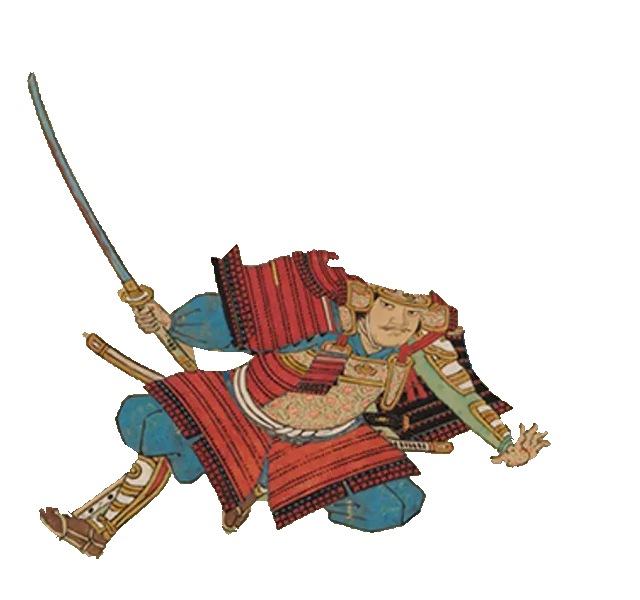
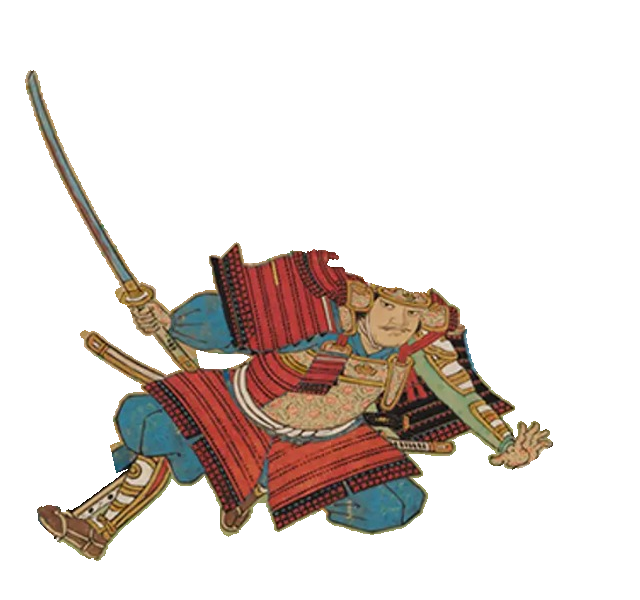
feat: 武者を除去した背景を構造ごとに復元（Step 4）
穴を金地・梁・畳縁・床・点線に領域分けし、梁と線は方向に沿って写し、
金地と床は同じ領域だけを取得元にしたパッチ補完で埋めた。
武者の画像のアルファを背景の穴と同一範囲にし、静止時の合成が元絵と画素単位で一致するようにした。

Claude-Session: https://claude.ai/code/session_01MRkYuQh9ee28DJTpxPr6ud

diff --git a/shuten-doji-animation-prototype/tools/restore_background.py b/shuten-doji-animation-prototype/tools/restore_background.py
@@ -1,0 +1,197 @@
+"""武者を除いた背景 scroll_background_clean.png を作る。
+
+穴を元絵の構造で領域分けし、領域ごとに埋め方を変える。
+  A 金地＋草      : 同じ領域だけを探索元にしたパッチ補完（Criminisi 法）
+  B 梁（敷居）    : 梁の方向に沿って見えている部分を写す
+  C 梁の下の畳縁  : 同上（黒点の周期を保つ）
+  D 緑の床        : パッチ補完
+  E 右手の下の点線: 点線の方向に沿って写す（黒点の周期を保つ）
+梁は左下で見えている部分の延長として、武者と鬼の首の後ろを通り柱の根元へ至るものとした。
+"""
+from pathlib import Path
+
+import cv2
+import numpy as np
+
+ROOT = Path(__file__).resolve().parent.parent
+SRC = ROOT / "assets/scroll/scroll_original.png"
+MASK = ROOT / "assets/characters/samurai_left_bottom/samurai_mask.png"
+OUT = ROOT / "assets/scroll/scroll_background_clean.png"
+
+ROI = (0, 130, 640, 710)          # 作業範囲 x0, y0, x1, y1
+SLOPE = -0.70                     # 梁・畳縁・点線に共通の傾き（遠近の平行線）
+BEAM_TOP_Y0 = 631.5               # 梁上端 y = BEAM_TOP_Y0 + SLOPE * x
+BEAM_T, STRIP_T = 31, 47          # 梁上端からの縦距離: 梁(黒線含む) / 畳縁 の下端
+DOT_LINE = (380, 670, -0.71)      # 右手の下の点線: (x0, y0, slope)
+DOT_X_MIN = 300
+DOT_HALF = 8
+DOT_PERIOD_X = 17.2               # 黒点の x 方向の周期
+BEAM_REF_X = (0, 33)              # 梁の全幅が見えている区間（足の左）
+PATCH = 9
+# パッチの取得元にしない物（複製されると不自然なもの）
+SOURCE_EXCLUDE = [
+    [(140, 130), (640, 130), (640, 395), (270, 395), (270, 300), (230, 270), (140, 215)],  # 鬼の首と髪
+    [(425, 340), (585, 340), (585, 515), (425, 515)],   # 青い斧の刃
+    [(440, 600), (548, 600), (548, 710), (440, 710)],   # 椀
+    [(240, 630), (312, 630), (312, 690), (240, 690)],   # 血の染み
+    [(0, 686), (640, 686), (640, 710), (0, 710)],       # 下端の点線と雲
+    [(522, 560), (566, 560), (566, 640), (522, 640)],   # 椀の上の赤い煙
+]
+SEARCH = 140
+HALO = 3                          # 穴の縁のにじみは取得元にしない
+FLOOR_HSV = ((22, 45), 40, 100)   # 床の緑: 色相範囲, 最低彩度, 最低明度
+FLOOR_MARGIN = 3
+
+A, B, C, D, E = 1, 2, 3, 4, 5
+
+
+def zone_map(shape, ox, oy):
+    """ROI 内の各画素を背景構造 A〜E に分類する。"""
+    h, w = shape
+    yy, xx = np.mgrid[0:h, 0:w].astype(np.float32)
+    xx += ox
+    yy += oy
+    t = yy - (BEAM_TOP_Y0 + SLOPE * xx)
+    z = np.full((h, w), D, np.uint8)
+    z[t < STRIP_T] = C
+    z[t < BEAM_T] = B
+    z[t < 0] = A
+    x0, y0, s = DOT_LINE
+    e = (np.abs(yy - (y0 + s * (xx - x0))) <= DOT_HALF) & (xx > DOT_X_MIN) & (z == D)
+    z[e] = E
+    return z
+
+
+def directional_fill(img, known, hole, zone, zid, slope, shifts):
+    """穴の画素を、帯の方向に shifts だけずらした既知画素から写す。"""
+    ys, xs = np.where(hole & (zone == zid))
+    h, w = zone.shape
+    filled = np.zeros_like(hole)
+    for y, x in zip(ys, xs):
+        for dx in shifts:
+            sx, sy = x + dx, y + slope * dx
+            ix, iy = int(round(sx)), int(round(sy))
+            if 0 <= ix < w - 1 and 0 <= iy < h - 1 and known[iy, ix] and zone[iy, ix] == zid:
+                img[y, x] = cv2.getRectSubPix(img, (1, 1), (float(sx), float(sy)))[0, 0]
+                filled[y, x] = True
+                break
+    return filled
+
+
+def mirror_fill(img, hole, zone, zid, slope, ref, ox):
+    """ref 区間を帯の方向に沿って折り返しながら敷き詰める（継ぎ目が出ない）。"""
+    a, b = ref[0] - ox, ref[1] - ox
+    L = b - a
+    ys, xs = np.where(hole & (zone == zid))
+    t = np.mod(xs - a, 2 * L)
+    sx = a + np.where(t < L, t, 2 * L - t).astype(np.float32)
+    sy = ys + slope * (sx - xs)
+    mapx = sx.reshape(-1, 1).astype(np.float32)
+    mapy = sy.reshape(-1, 1).astype(np.float32)
+    img[ys, xs] = cv2.remap(img, mapx, mapy, cv2.INTER_LINEAR)[:, 0]
+    return hole & (zone == zid)
+
+
+def criminisi(img, known, hole, zone, zid, excluded, floor):
+    """同じ領域内の既知パッチだけを探索元にして穴を埋める。"""
+    r = PATCH // 2
+    h, w = zone.shape
+    target = hole & (zone == zid)
+    src_ok = known & (zone == zid) & ~excluded
+    if zid == D:
+        src_ok &= floor
+    conf = src_ok.astype(np.float32)
+    gray = cv2.cvtColor(img, cv2.COLOR_BGR2GRAY).astype(np.float32)
+    while target.any():
+        valid = (known | (zone != zid)) & ~target
+        front = target & (cv2.dilate(valid.astype(np.uint8), np.ones((3, 3), np.uint8)) > 0)
+        fy, fx = np.where(front)
+        # 優先度 = 信頼度 × 等輝度線の強さ
+        gx = cv2.Sobel(gray, cv2.CV_32F, 1, 0, ksize=3)
+        gy = cv2.Sobel(gray, cv2.CV_32F, 0, 1, ksize=3)
+        cbox = cv2.boxFilter(conf, -1, (PATCH, PATCH), normalize=True)
+        tm = target.astype(np.float32)
+        nx = cv2.Sobel(tm, cv2.CV_32F, 1, 0, ksize=3)
+        ny = cv2.Sobel(tm, cv2.CV_32F, 0, 1, ksize=3)
+        nn = np.sqrt(nx ** 2 + ny ** 2) + 1e-6
+        data = np.abs(-gy * nx / nn + gx * ny / nn) / 255.0 + 0.01
+        pri = cbox[fy, fx] * data[fy, fx]
+        i = int(np.argmax(pri))
+        py, px = int(fy[i]), int(fx[i])
+
+        y0, y1 = max(py - r, 0), min(py + r + 1, h)
+        x0, x1 = max(px - r, 0), min(px + r + 1, w)
+        tpl = img[y0:y1, x0:x1].astype(np.float32)
+        tmask = (src_ok[y0:y1, x0:x1] | (known[y0:y1, x0:x1] & ~target[y0:y1, x0:x1]
+                 & (zone[y0:y1, x0:x1] == zid))).astype(np.float32)
+        ph, pw = y1 - y0, x1 - x0
+
+        sy0, sy1 = max(py - SEARCH, 0), min(py + SEARCH, h)
+        sx0, sx1 = max(px - SEARCH, 0), min(px + SEARCH, w)
+        region = img[sy0:sy1, sx0:sx1].astype(np.float32)
+        okwin = cv2.erode(src_ok[sy0:sy1, sx0:sx1].astype(np.uint8),
+                          np.ones((ph, pw), np.uint8), anchor=(0, 0), borderValue=0)
+        okwin = okwin[:region.shape[0] - ph + 1, :region.shape[1] - pw + 1]
+        if tmask.sum() == 0 or okwin.max() == 0:
+            # 手がかりが無い: 近傍の既知画素の平均で埋める
+            sel = target[y0:y1, x0:x1]
+            patch_src = img[sy0:sy1, sx0:sx1][src_ok[sy0:sy1, sx0:sx1]]
+            img[y0:y1, x0:x1][sel] = patch_src.mean(0) if len(patch_src) else 0
+        else:
+            cost = cv2.matchTemplate(region, tpl, cv2.TM_SQDIFF, mask=np.dstack([tmask] * 3))
+            cost[okwin == 0] = np.inf
+            by, bx = np.unravel_index(int(np.argmin(cost)), cost.shape)
+            src = img[sy0 + by:sy0 + by + ph, sx0 + bx:sx0 + bx + pw]
+            sel = target[y0:y1, x0:x1]
+            img[y0:y1, x0:x1][sel] = src[sel]
+        sel = target[y0:y1, x0:x1].copy()
+        conf[y0:y1, x0:x1][sel] = cbox[py, px]
+        known[y0:y1, x0:x1][sel] = True
+        target[y0:y1, x0:x1][sel] = False
+        gray[y0:y1, x0:x1] = cv2.cvtColor(img[y0:y1, x0:x1], cv2.COLOR_BGR2GRAY)
+
+
+def main():
+    rgba = cv2.imread(str(SRC), cv2.IMREAD_UNCHANGED)
+    mask = cv2.imread(str(MASK), 0) > 0
+
+    rx0, ry0, rx1, ry1 = ROI
+    img = rgba[ry0:ry1, rx0:rx1, :3].copy()
+    hole = mask[ry0:ry1, rx0:rx1].copy()
+    known = ~hole
+    known0 = known.copy()
+    zone = zone_map(hole.shape, rx0, ry0)
+
+    excl = np.zeros(hole.shape, np.uint8)
+    for p in SOURCE_EXCLUDE:
+        cv2.fillPoly(excl, [np.array(p, np.int32) - (rx0, ry0)], 1)
+    halo = cv2.dilate(hole.astype(np.uint8), np.ones((2 * HALO + 1,) * 2, np.uint8)) > 0
+    excluded = (excl > 0) | halo
+    hsv = cv2.cvtColor(img, cv2.COLOR_BGR2HSV)
+    (hlo, hhi), smin, vmin = FLOOR_HSV
+    green = ((hsv[..., 0] >= hlo) & (hsv[..., 0] <= hhi) & (hsv[..., 1] >= smin)
+             & (hsv[..., 2] >= vmin)).astype(np.uint8)
+    floor = cv2.erode(green, np.ones((2 * FLOOR_MARGIN + 1,) * 2, np.uint8)) > 0
+    img[hole] = 0
+    dots = [DOT_PERIOD_X * n for n in range(1, 40)]
+    f = mirror_fill(img, hole, zone, B, SLOPE, BEAM_REF_X, rx0)
+    known |= f
+    hole &= ~f
+    for zid, slope, shifts in (
+        (C, SLOPE, [-s for s in dots]),
+        (E, DOT_LINE[2], [v for n in range(4, 9) for v in (-DOT_PERIOD_X * n, DOT_PERIOD_X * n)]),
+    ):
+        f = directional_fill(img, known, hole, zone, zid, slope, shifts)
+        known |= f
+        hole &= ~f
+    for zid in (A, D, B, C, E):
+        criminisi(img, known, hole, zone, zid, excluded, floor)
+
+    out = rgba.copy()
+    out[ry0:ry1, rx0:rx1, :3] = img
+    cv2.imwrite(str(OUT), out)
+    print(f"filled {int((~known0).sum())} px")
+
+
+if __name__ == "__main__":
+    main()

diff --git a/shuten-doji-animation-prototype/tools/extract_samurai.py b/shuten-doji-animation-prototype/tools/extract_samurai.py
@@ -4,7 +4,7 @@
 境界帯だけを色で判定させる。RGB は元画像の画素をそのまま使い、アルファのみ付与する。
 
 出力:
-  assets/characters/samurai_left_bottom/samurai_mask.png   全体座標の二値マスク
+  assets/characters/samurai_left_bottom/samurai_mask.png   全体座標の二値マスク（背景復元の穴と同一）
   assets/characters/samurai_left_bottom/samurai_01.png     フレーム用キャンバスに配置した RGBA
   assets/scroll/scroll_foreground_oni.png                  武者の手前にある鬼の歯・顎（全体座標 RGBA）
 """
@@ -25,6 +25,7 @@ FRAME_X, FRAME_Y, FRAME_W, FRAME_H = 0, 100, 640, 600
 GRABCUT_ROI = (0, 120, 620, 700)
 MIN_COMPONENT_PX = 40
 OCCLUDER_REACH = 10
+EDGE_GROW = 2          # 輪郭のにじみも武者側に含める幅
 
 
 def poly(pts):
@@ -92,7 +93,18 @@ def main():
     img = rgba[..., :3]
     cfg = json.loads(CFG.read_text())
 
-    fg = segment(img, build_constraints(img, cfg), cfg)
+    core = segment(img, build_constraints(img, cfg), cfg)
+
+    om = np.zeros(core.shape, np.uint8)
+    cv2.fillPoly(om, [poly(p) for p in cfg["occluder"]], 255)
+    # 武者に接する範囲（鬼の歯・下唇）だけを手前に置く
+    near = cv2.dilate(core, cv2.getStructuringElement(cv2.MORPH_ELLIPSE, (2 * OCCLUDER_REACH + 1,) * 2))
+    occ = (om > 0) & (core == 0) & (near > 0)
+
+    # 武者の画像と背景復元の穴を同じ範囲にして、静止時に元絵と画素単位で一致させる
+    grown = cv2.dilate(core, cv2.getStructuringElement(cv2.MORPH_ELLIPSE, (2 * EDGE_GROW + 1,) * 2))
+    cv2.fillPoly(grown, [poly(p) for p in cfg.get("extra_poly", [])], 255)
+    fg = ((grown > 0) & ~occ).astype(np.uint8) * 255
     CHAR_DIR.mkdir(parents=True, exist_ok=True)
     cv2.imwrite(str(CHAR_DIR / "samurai_mask.png"), fg)
 
@@ -101,12 +113,6 @@ def main():
     out[..., 3] = fg
     frame = out[FRAME_Y:FRAME_Y + FRAME_H, FRAME_X:FRAME_X + FRAME_W]
     cv2.imwrite(str(CHAR_DIR / "samurai_01.png"), frame)
-
-    om = np.zeros(fg.shape, np.uint8)
-    cv2.fillPoly(om, [poly(p) for p in cfg["occluder"]], 255)
-    # 武者に接する範囲（鬼の歯・下唇）だけを手前に置く
-    near = cv2.dilate(fg, cv2.getStructuringElement(cv2.MORPH_ELLIPSE, (2 * OCCLUDER_REACH + 1,) * 2))
-    occ = (om > 0) & (fg == 0) & (near > 0)
     fgl = np.zeros_like(rgba)
     fgl[occ, :3] = img[occ]
     fgl[..., 3] = occ * 255
